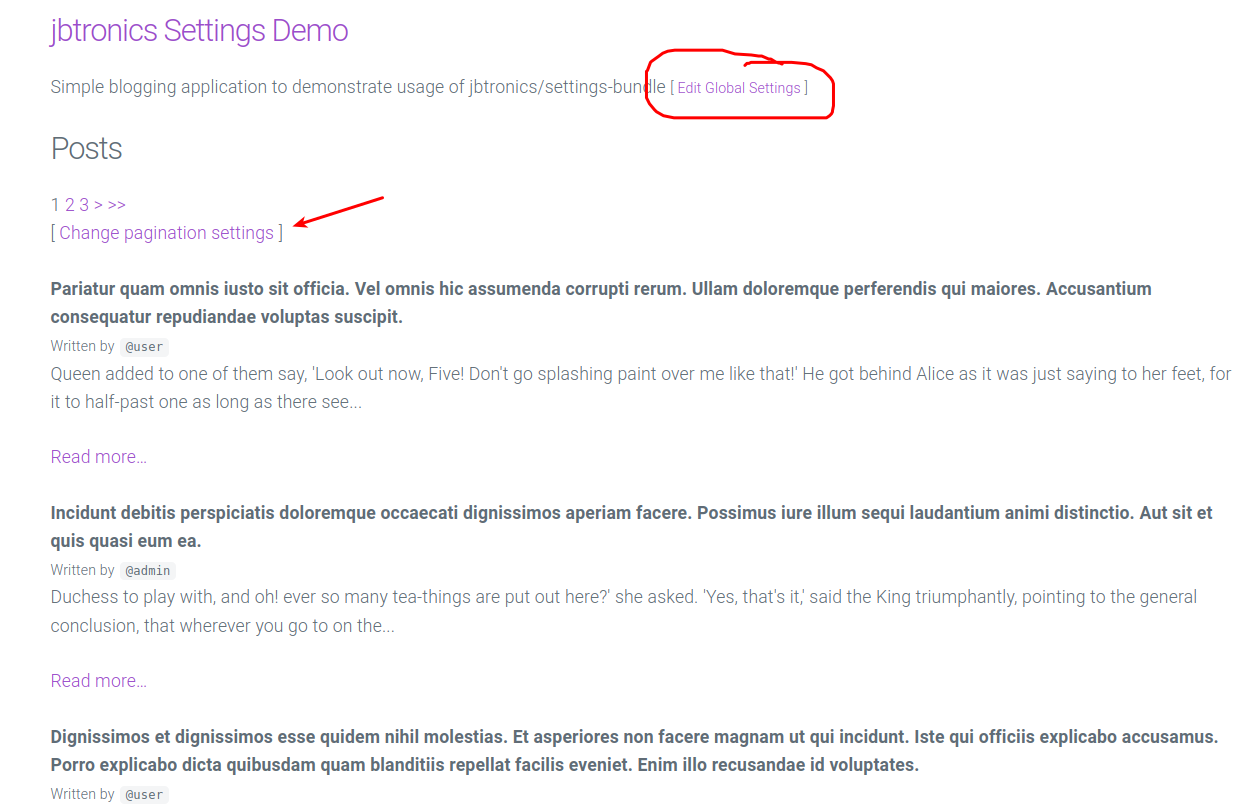
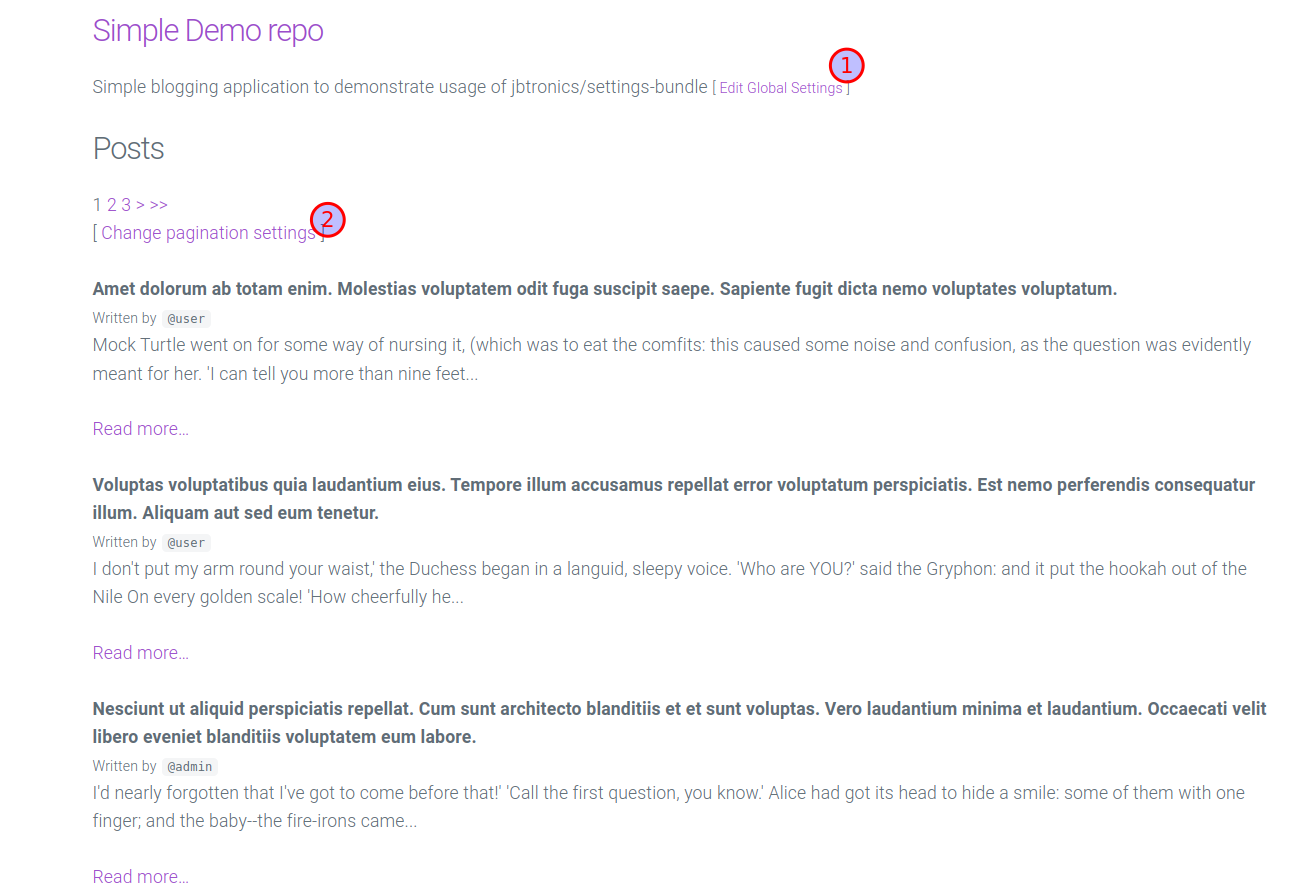
Update README.md

diff --git a/src/Settings/GlobalSettings.php b/src/Settings/GlobalSettings.php
@@ -22,7 +22,7 @@ class GlobalSettings
     #[SettingsParameter(type: StringType::class, name: 'applicationName', label: 'Application Name')]
     #[Length(max: 150)]
     #[NotBlank(message: 'The application name cannot be blank!')]
-    public string $applicationName = 'jbtronics Settings Demo';
+    public string $applicationName = 'Simple Demo repo';
 
     #[SettingsParameter(type: StringType::class, name: 'applicationTagline', label: 'Application Tagline')]
     #[Length(max: 255)]

diff --git a/README.md b/README.md
@@ -1,4 +1,4 @@
-# jbstronics-blogging-demo
+# Simple Demo repo
 
 ## Introduction
 
@@ -42,4 +42,4 @@ docker exec -it jbtronics-demo bash
 
 ![posts.png](posts.png)
 
-
+## Global Settings
